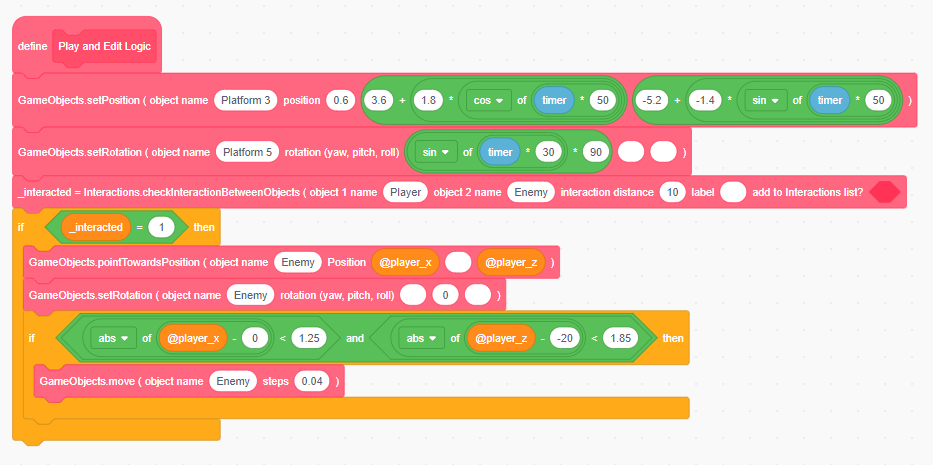
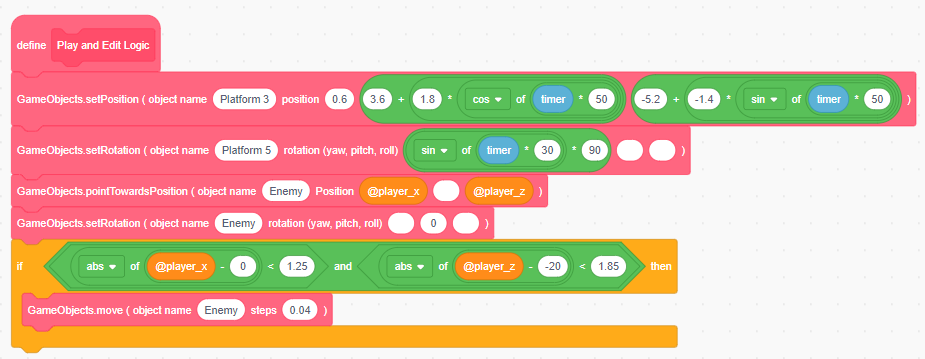
Fixes for movement code

diff --git a/docs/tutorials/01-Platformer Tutorial/04-Moving Objects.md b/docs/tutorials/01-Platformer Tutorial/04-Moving Objects.md
@@ -52,7 +52,7 @@ For `Platform 5`, we want it to rotate in place around the y-axis (yaw), like a 
 
 <ScratchBlocks>
 {`
-  GameObjects.setRotation \\( object name [Platform 5] rotation \\(yaw, pitch, roll\\) (([sin v] of (timer)) * [180])  [] []   \\) :: custom
+  GameObjects.setRotation \\( object name [Platform 5] rotation \\(yaw, pitch, roll\\) (([sin v] of ((timer)*[30])) * [90])  [] []   \\) :: custom
 `}
 </ScratchBlocks>
 
@@ -61,6 +61,8 @@ For `Platform 5`, we want it to rotate in place around the y-axis (yaw), like a 
 If you aren't familiar with yaw, pitch and roll, then just just know that yaw rotates around the y-axis, pitch around the x-axis and roll around the z-axis.
 
 ![principal axes](media/yaw-pitch-roll.png)
+
+We wanted to rotate our platform around the y-axis, so that means we applied a rotation on the yaw axis. To make it oscillate we used sin motion again, with timer as the input parameter. Multiplying timer by 30 makes it repeat roughly every 6 seconds and multiplying it by 90 outside the sin block, makes it spin quater way around and then back again.
 
 ## Moving our enemy towards the player
 
@@ -72,7 +74,7 @@ To point an object towards a position in ChromeEngine we use the `GameObjects.po
 
 <ScratchBlocks>
 {`
-  GameObjects.pointTowardsPosition \\( object 1 name [Enemy] Position [@player_x] [] [@player_z]\\) :: custom
+  GameObjects.pointTowardsPosition \\( object 1 name [Enemy] Position (@player_x) [] (@player_z)\\) :: custom
 `}
 </ScratchBlocks>
 
@@ -83,7 +85,7 @@ To move an object forward by a step we use the `GameObjects.move` block. Here's 
 
 <ScratchBlocks>
 {`
-  GameObjects.move \\( object name [Enemy] steps [0.1]\\) :: custom
+  GameObjects.move \\( object name [Enemy] steps [0.04]\\) :: custom
 `}
 </ScratchBlocks>
 
@@ -96,15 +98,17 @@ We can constrain the rotation by setting the pitch rotation to 0 AFTER calling `
 
 <ScratchBlocks>
 {`
-    GameObjects.pointTowardsPosition \\( object 1 name [Enemy] Position [@player_x] [] [@player_z]\\) :: custom
+    GameObjects.pointTowardsPosition \\( object 1 name [Enemy] Position (@player_x) [] (@player_z)\\) :: custom
     GameObjects.setRotation \\( object name [Enemy] rotation \\(yaw, pitch, roll\\) [] [0] []\\) :: custom
-    if <<([abs v] of ((@player_x)-[0]))< [1.4]> and <([abs v] of ((@player_z)-[-20]))< [1.9]>>then
-    GameObjects.move \\( object name [Enemy] steps [0.1]\\) :: custom
+    if <<([abs v] of ((@player_x)-[0]))< [1.25]> and <([abs v] of ((@player_z)-[-20]))< [1.85]>>then
+    GameObjects.move \\( object name [Enemy] steps [0.04]\\) :: custom
 `}
 </ScratchBlocks>
 
 - `0` and `-20` are the x,z coordinate of the platform
-- `1.4` and `1.9` are the width, height of the platform
+- `1.25` and `1.85` are a little more than half the width and depth of platform 6.
+
+The code may look a bit complex, but all it means is "if the player's x is within half the width of the platform from the platform's centre's x and the player's z is within half the depth of the platform from the platform's centre's z then the player is within the bounds of the platform and the enemy should attack"
 
 ## Wrapping up and Additional Resources
 

diff --git a/docs/tutorials/01-Platformer Tutorial/05-Interactive Game Elements.md b/docs/tutorials/01-Platformer Tutorial/05-Interactive Game Elements.md
@@ -19,7 +19,7 @@ If the player touches the specified block it sets `_touching?` to true, and adds
 
 ## Killing the player if they touch a hazard
 
-We'll use the `Interactions.playerIsTouching?` block to check if the player is touching any of the hazards and if so add `hazard` to the `ìnteractions` list. Then we'll make it so that if `interactions` contains hazard or the player y is below the level of the ground we reset the player back to the start and play a death sound effect.
+We'll use the `Interactions.playerIsTouching?` block to check if the player is touching any of the hazards and if so add `hazard` to the `ìnteractions` list. Then we'll make it so that if `interactions` contains hazard or the player y is below the level of the ground plus a little bit, we reset the player back to the start and play a death sound effect.
 
 Here's the code to do this:
 
@@ -28,7 +28,7 @@ Here's the code to do this:
 _touching? = Interactions.playerIsTouching? \\( object name  [Spike 1] label  [hazard] \\) :: custom
 _touching? = Interactions.playerIsTouching? \\( object name  [Spike 2] label  [hazard] \\) :: custom
 _touching? = Interactions.playerIsTouching? \\( object name  [Enemy] label  [hazard] \\) :: custom
-if <<[interactions v] contains [hazard] ?> or <(@player_y) < (@ground_y)>> then
+if <<[interactions v] contains [hazard] ?> or <(@player_y) < ((@ground_y) + [1])>> then
     set [@player_x v] to [0]
     set [@player_y v] to [1]
     set [@player_z v] to [0] 
